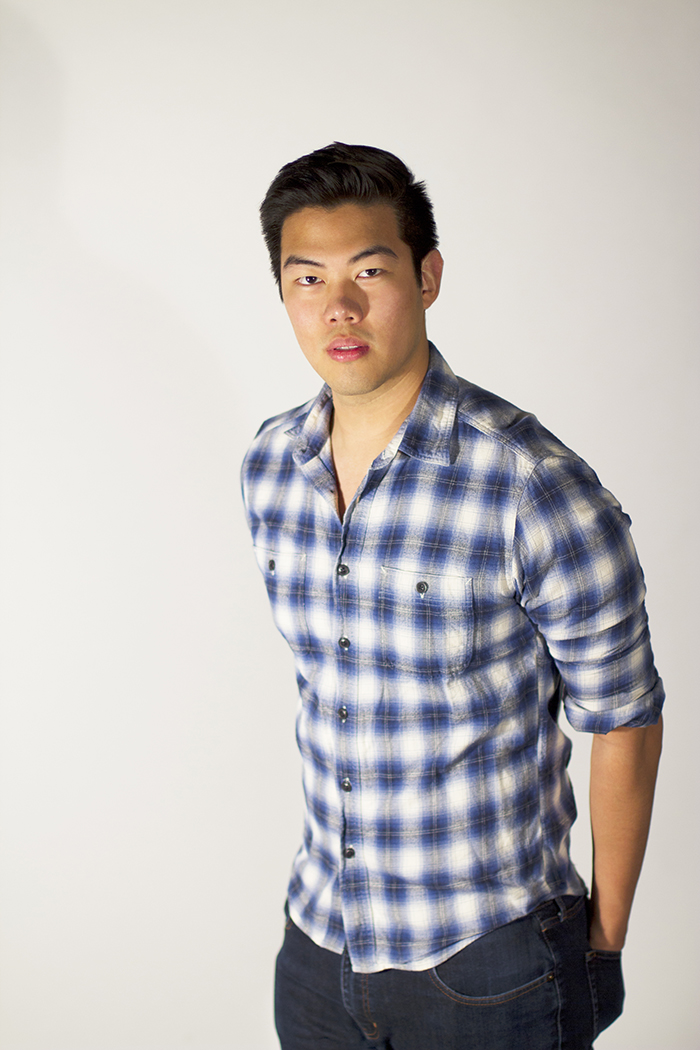
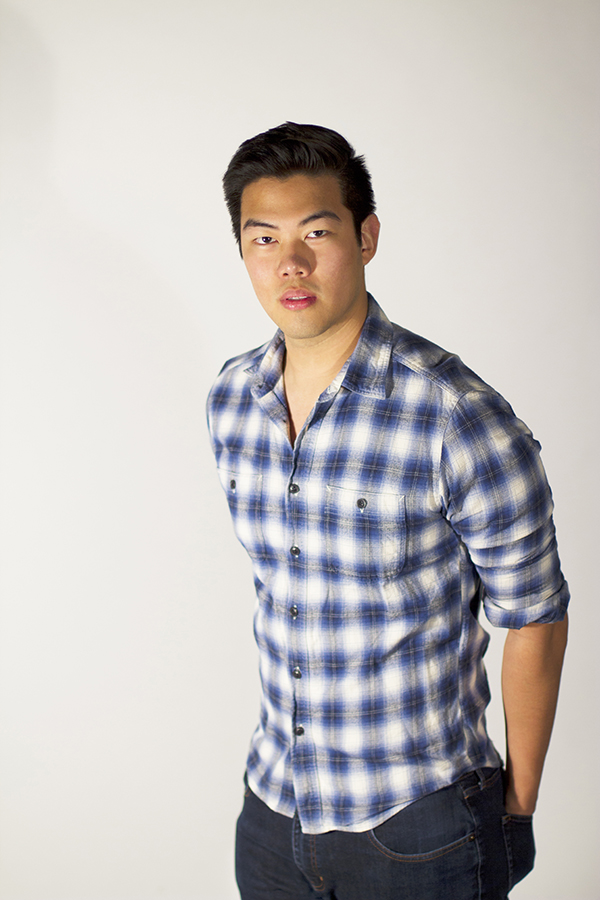
make pics smaller

Changed region(s): [[0.72, 0.7156, 0.87, 0.8711], [0.9, 0.7778, 0.93, 0.84], [0.93, 0.7467, 0.96, 0.7778]]

diff --git a/media.html b/media.html
@@ -97,17 +97,17 @@
             <a href="#portfolioModal2" class="portfolio-link" data-toggle="modal">
                 <div class="pic4" ><img width="100%" src="pics/small/hands-behind-head.jpg"></div>
             </a>
+            <a href="#portfolioModal13" class="portfolio-link" data-toggle="modal">
+                <div class="pic4" ><img width="100%" src="pics/small/cocky2.jpg"></div>
+            </a>
             <a href="#portfolioModal3" class="portfolio-link" data-toggle="modal">
                 <div class="pic4" ><img width="100%" src="pics/small/goofy.jpg"></div>
             </a>
-            <a href="#portfolioModal4" class="portfolio-link" data-toggle="modal">
-                <div class="pic4" ><img width="100%" src="pics/small/slide-2.jpg"></div>
+            <a href="#portfolioModal10" class="portfolio-link" data-toggle="modal">
+                <div class="pic2" ><img width="100%" src="pics/small/sexy.jpg"></div>
             </a>
-            <a href="#portfolioModal7" class="portfolio-link" data-toggle="modal">
-                <div class="pic2" ><img width="100%" src="pics/small/cocky.jpg"></div>
-            </a>
-            <a href="#portfolioModal8" class="portfolio-link" data-toggle="modal">
-                <div class="pic2" ><img width="100%" src="pics/small/close-up2.jpg"></div>
+            <a href="#portfolioModal11" class="portfolio-link" data-toggle="modal">
+                <div class="pic2" ><img width="100%" src="pics/small/prof.jpg"></div>
             </a>
             <a href="#portfolioModal5" class="portfolio-link" data-toggle="modal">
                 <div class="pic4" ><img width="100%" src="pics/small/shirt-tie.jpg"></div>
@@ -121,14 +121,14 @@
             <a href="#portfolioModal12" class="portfolio-link" data-toggle="modal">
                 <div class="pic4" ><img width="100%" src="pics/small/confident.jpg"></div>
             </a>
-            <a href="#portfolioModal10" class="portfolio-link" data-toggle="modal">
-                <div class="pic3" ><img width="100%" src="pics/small/sexy.jpg"></div>
+            <a href="#portfolioModal4" class="portfolio-link" data-toggle="modal">
+                <div class="pic3" ><img width="100%" src="pics/small/slide-2.jpg"></div>
             </a>
-            <a href="#portfolioModal11" class="portfolio-link" data-toggle="modal">
-                <div class="pic3" ><img width="100%" src="pics/small/prof.jpg"></div>
+            <a href="#portfolioModal8" class="portfolio-link" data-toggle="modal">
+                <div class="pic3" ><img width="100%" src="pics/small/close-up2.jpg"></div>
             </a>
-            <a href="#portfolioModal13" class="portfolio-link" data-toggle="modal">
-                <div class="pic3" ><img width="100%" src="pics/small/cocky2.jpg"></div>
+            <a href="#portfolioModal7" class="portfolio-link" data-toggle="modal">
+                <div class="pic3" ><img width="100%" src="pics/small/cocky.jpg"></div>
             </a>
         </div>
     </div>
